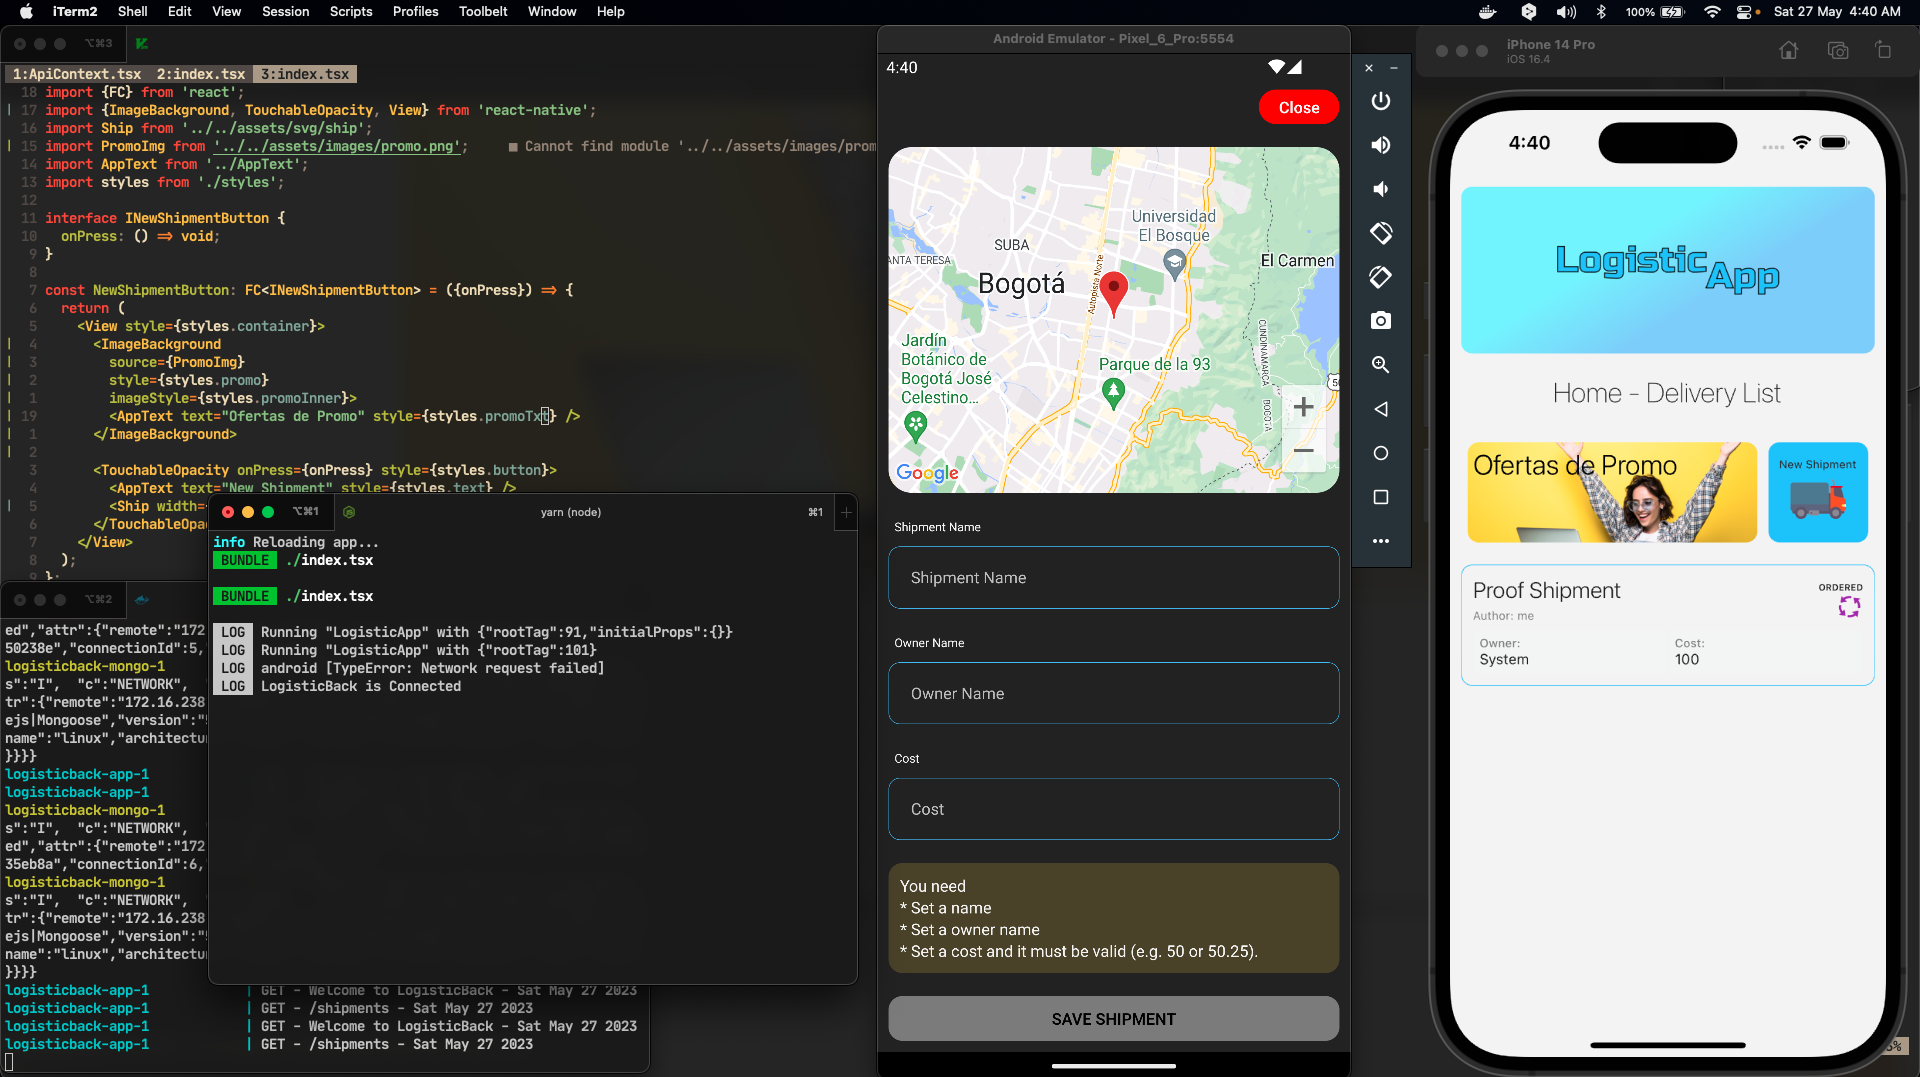
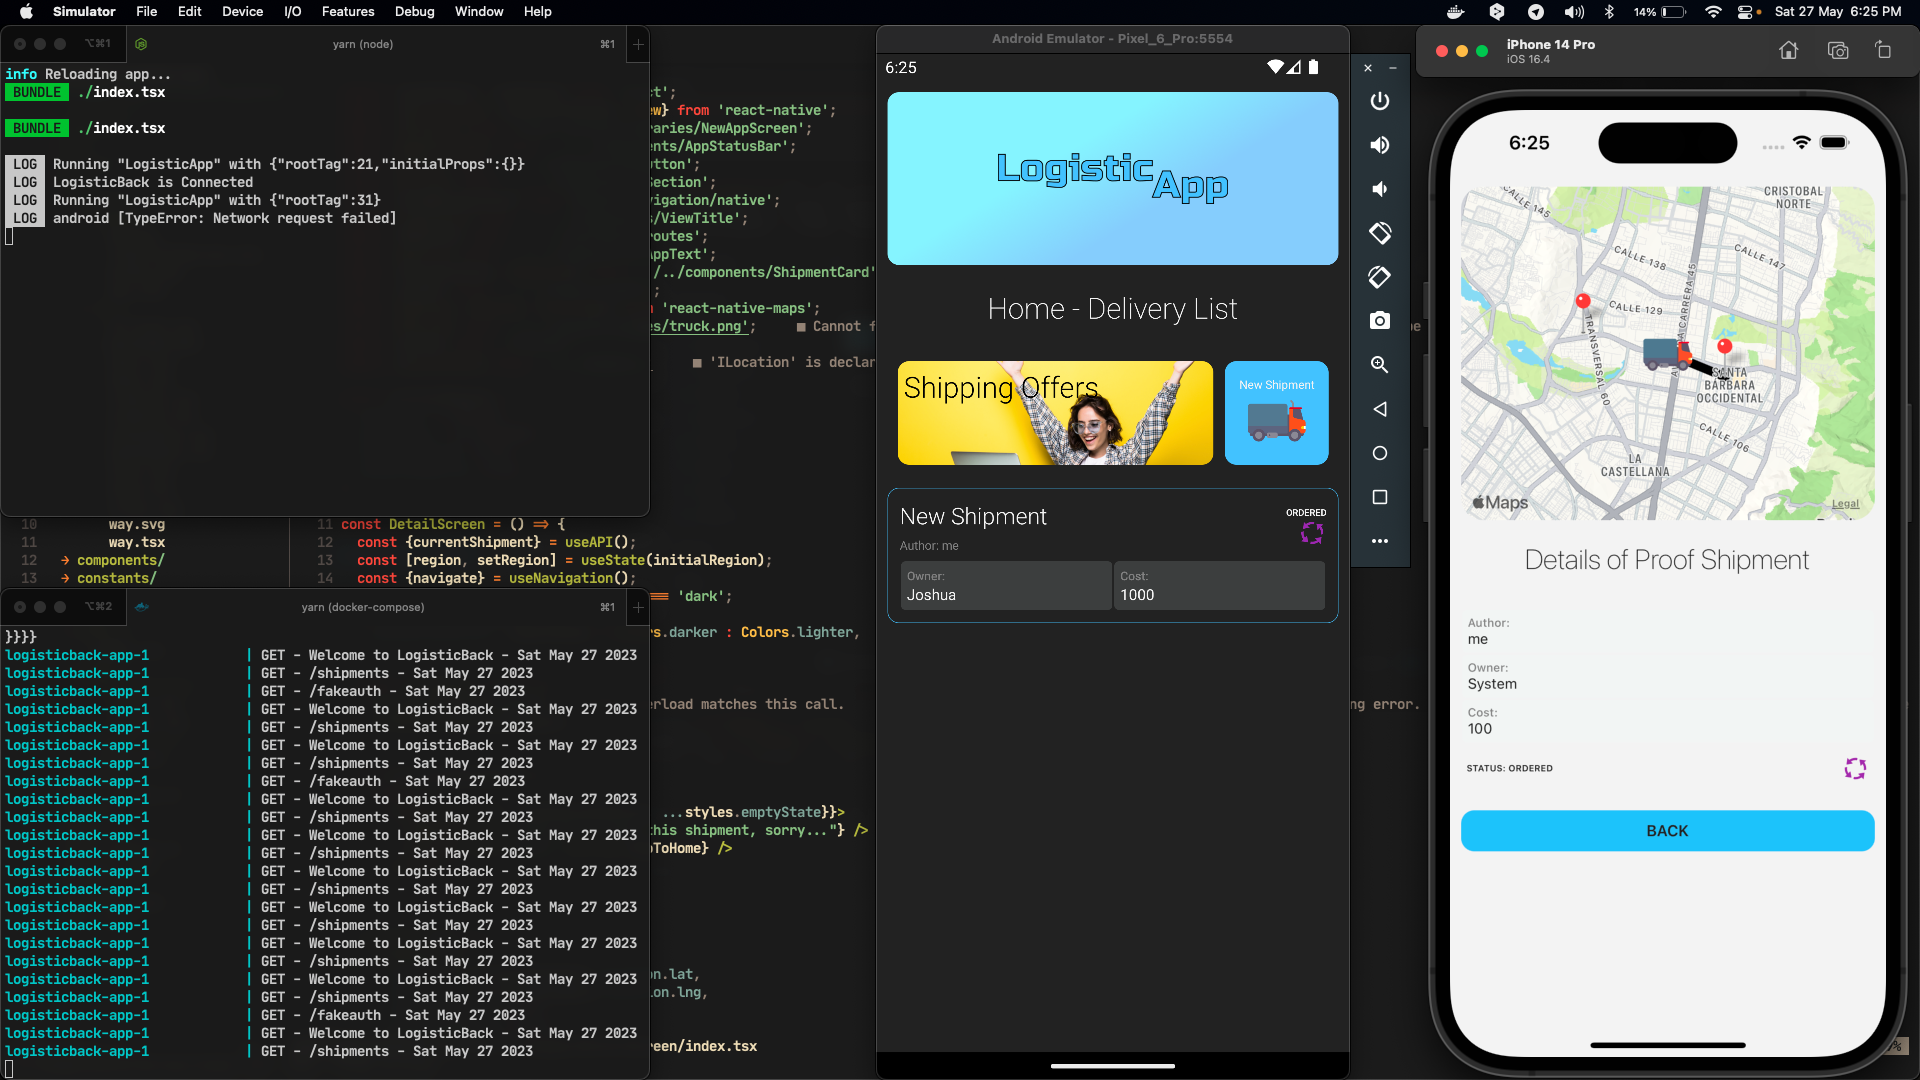
Improvement: Code in Destails Screen

diff --git a/src/pages/DetailScreen/index.tsx b/src/pages/DetailScreen/index.tsx
@@ -11,8 +11,9 @@ import AppText from '../../components/AppText';
 import {currentIcon, ShipLine} from '../../components/ShipmentCard';
 import useAPI from '../../hooks/useAPI';
 import MapView, {Marker, Polyline} from 'react-native-maps';
-import WayLogo from '../../assets/images/way.png';
+import WayLogo from '../../assets/images/truck.png';
 import styles from './styles';
+import {ILocation} from '../../models';
 
 const initialRegion = {
   latitude: 4.702429,
@@ -56,6 +57,16 @@ const DetailScreen = () => {
   }, [currentShipment]);
 
   const status = currentShipment.status.toString();
+  const {origin, location, destination} = currentShipment;
+  const markers = [
+    {name: 'origin', latitude: origin.lat, longitude: origin.lng},
+    {name: 'location', latitude: location.lat, longitude: location.lng},
+    {
+      name: 'destination',
+      latitude: destination.lat,
+      longitude: destination.lng,
+    },
+  ];
 
   return (
     <ScrollView
@@ -69,6 +80,18 @@ const DetailScreen = () => {
             userInterfaceStyle={isDarkMode ? 'dark' : 'light'}
             zoomControlEnabled
             region={region}>
+            {markers.map(mark => {
+              const {name, latitude, longitude} = mark;
+              return (
+                <Marker
+                  key={name}
+                  coordinate={{latitude, longitude}}
+                  {...(name === 'location' && {icon: WayLogo, image: WayLogo})}
+                />
+              );
+            })}
+
+            {/*
             <Marker
               coordinate={{
                 latitude: currentShipment.origin.lat,
@@ -91,6 +114,7 @@ const DetailScreen = () => {
                 longitude: currentShipment.destination.lng,
               }}
             />
+            */}
 
             <Polyline
               coordinates={[
@@ -104,7 +128,7 @@ const DetailScreen = () => {
                 },
               ]}
               strokeColor="#000"
-              strokeWidth={10}
+              strokeWidth={8}
             />
           </MapView>
         </View>

diff --git a/README.md b/README.md
@@ -8,16 +8,6 @@ El **Stack** seleccionado para este proyecto es MERN.
 
 La idea es realizar una aplicación movíl que permita gestionar el estado de envíos de "X" producto.
 
-Inicialmente se pensó en manejar un repositorio independiente para el backend sin embargo, luego se pensó que era mejor manejarlo por medio de Docker, creando un archivo docker-compose que permita la ejecución de una api rest hecha con node.
-
-## Cosas por finalizar:
-
-- [x] Integración de Mongo con el api rest en Node (Back).
-
-- [x] Manejo del login (App).
-
-- [x] Crear los endpoins necesarios para el manejo de la data que provea el api (Back).
-
 ## Necesario
 
 Debes crear el archivo .env y colocar las siguientes variables
@@ -28,6 +18,16 @@ MAP_API_KEY=YourApiKey
 
 ```
 
+## Cosas por finalizar:
+
+- [] Mejorar la interfaz del login.
+
+- [] Desarrollar la vista de edicion de envios.
+
+- [] Desarrollar vista de perfil.
+
+- [] Agregar boton de logout.
+
 ## Aspectos que podría mejorar la aplicación
 
 Usar una solución en la nube para la rapida integración de los servicios en un mvp y luego manejarlo de forma mas especifica.
@@ -37,5 +37,3 @@ Usar una solución en la nube para la rapida integración de los servicios en un
 **La aplicación corre optimamente en ios y android**
 
 para el backend ver: https://github.com/joshdev15/LogisticBack
-
-en la rama joshua
